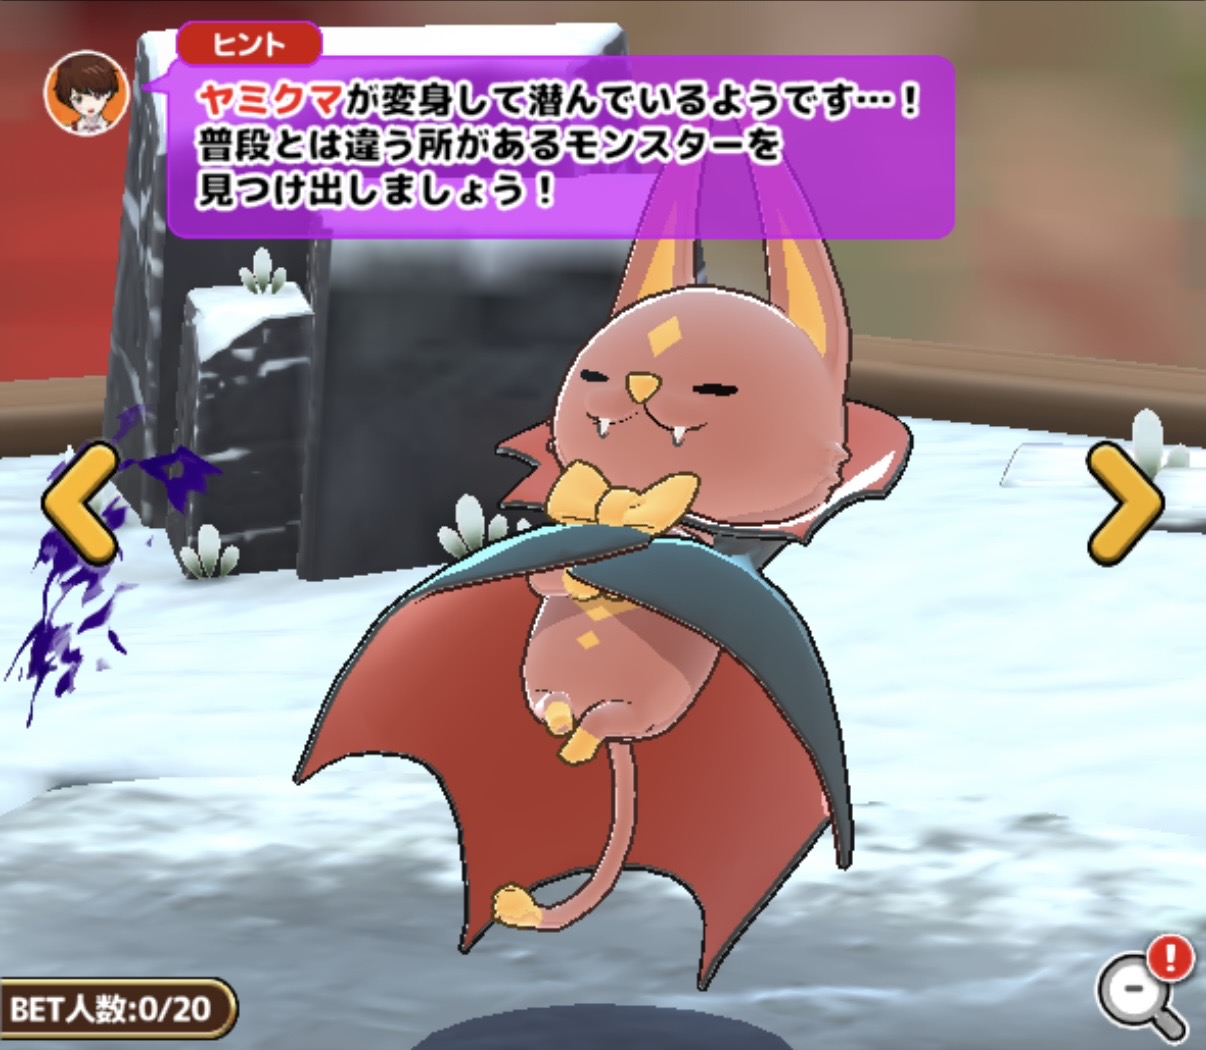
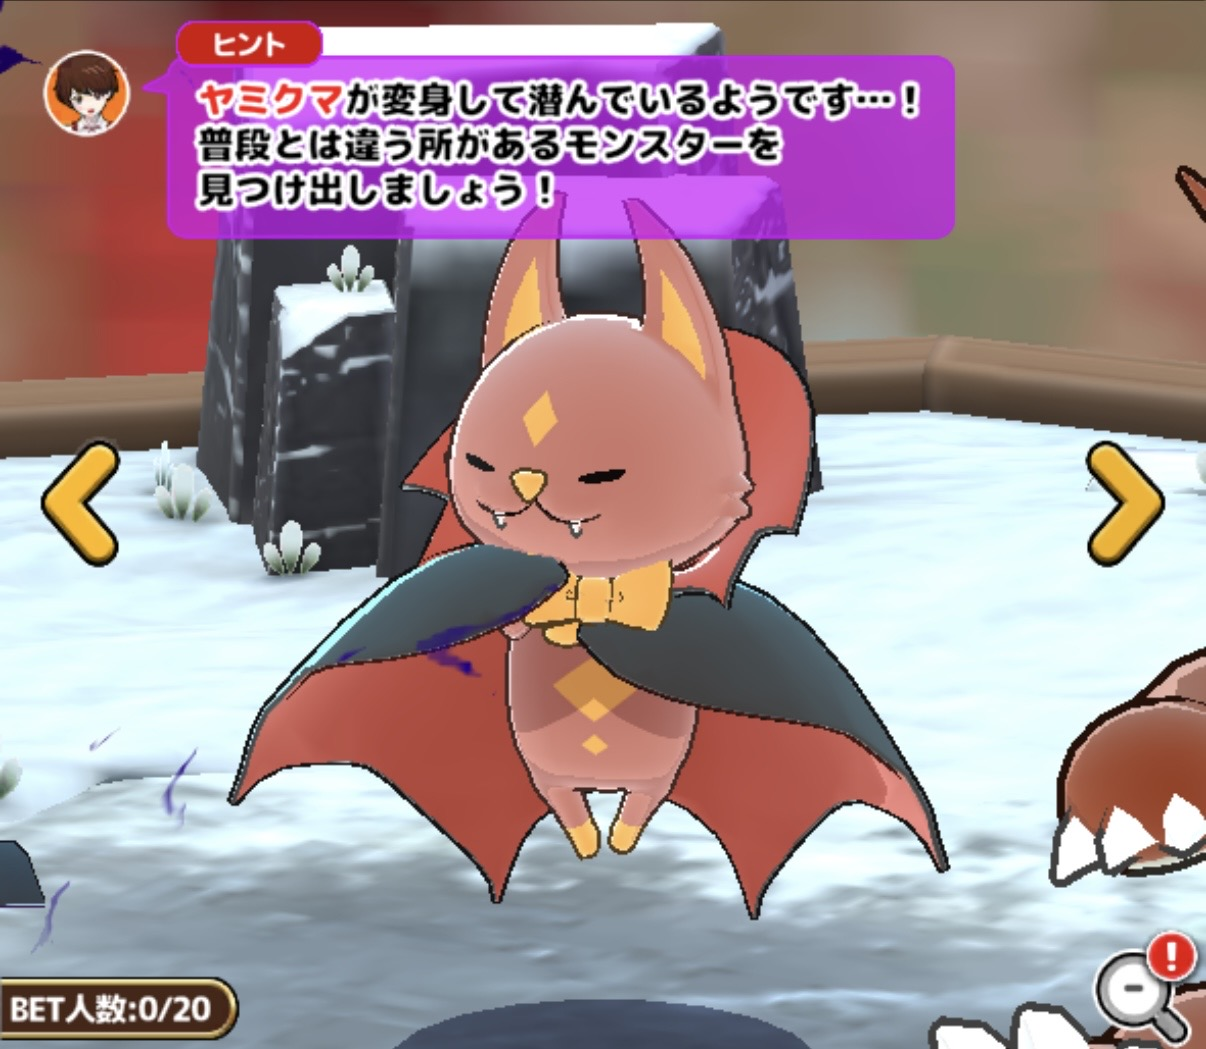
情報更新

diff --git a/index.html b/index.html
@@ -37,7 +37,7 @@
   <link rel="preconnect" href="https://fonts.googleapis.com">
   <link rel="preconnect" href="https://fonts.gstatic.com" crossorigin>
   <link href="https://fonts.googleapis.com/css2?family=Dela+Gothic+One&family=Zen+Antique&family=Noto+Sans+JP:wght@400;500;700;900&display=swap" rel="stylesheet">
-  <link rel="stylesheet" href="style.css?v=0.4.2">
+  <link rel="stylesheet" href="style.css?v=0.4.3">
 </head>
 <body>
 
@@ -215,8 +215,8 @@
     </svg>
   </div>
 
-  <script src="data-normal.js?v=0.4.2" defer></script>
-  <script src="data-anomaly.js?v=0.4.2" defer></script>
-  <script src="script.js?v=0.4.2" defer></script>
+  <script src="data-normal.js?v=0.4.3" defer></script>
+  <script src="data-anomaly.js?v=0.4.3" defer></script>
+  <script src="script.js?v=0.4.3" defer></script>
 </body>
 </html>

diff --git a/data-anomaly.js b/data-anomaly.js
@@ -126,6 +126,11 @@ const ANOMALY_DATA = {
       compareIndex: 3
     },
     {
+      note: "尻尾",
+      point: "尻尾がない。",
+      compareIndex: 3
+    },
+    {
       note: "耳",
       point: "耳が通常時と比べて長い。",
       compareIndex: 4
